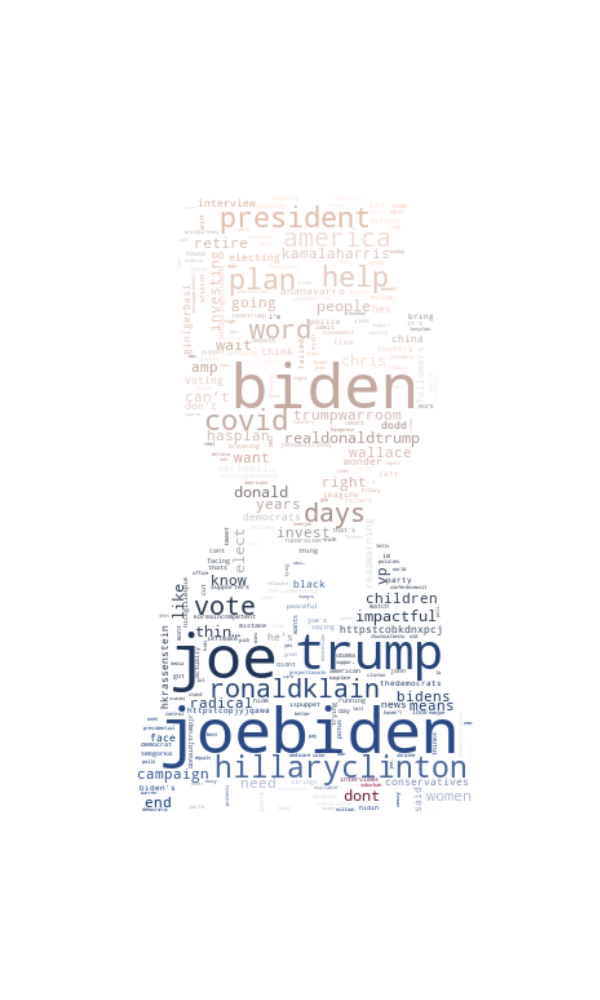
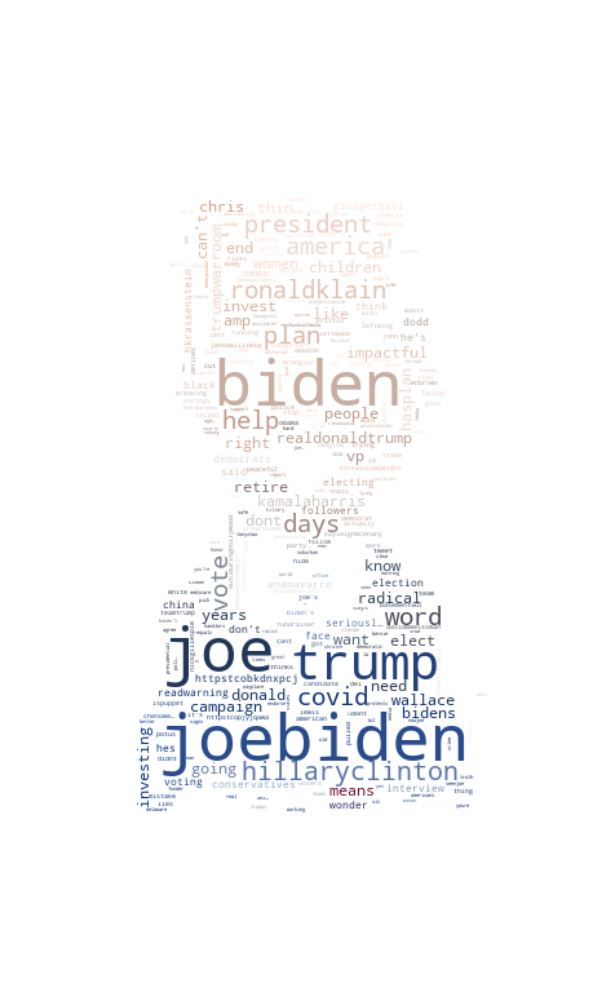
Fusion finish success

Changed region(s): [[0.21, 0.186, 0.81, 0.837]]

diff --git a/AppTraitement/index.py b/AppTraitement/index.py
@@ -1,17 +1,18 @@
 from Python.ParsingJson import ParsingJson
-# from Python.ParsingSpacy import ParsingSpacy
+from Python.ParsingSpacy import ParsingSpacy
 from Python.TraitementJsonFile import TraitementJsonFile
+from Python.GenerateImgResult import GenerateImgResult
 import time
 
 
-start = time.time()
-# Génération des JsonFile
-traitementJsonFile = TraitementJsonFile()
-traitementJsonFile.openFile("AppTraitement/JsonBigFile/us_election20_tweet_pr.json", 50000)
-traitementJsonFile.writeFile()
-end = time.time()
-val = end - start
-print("Time OpeWri : " + str(val))
+# start = time.time()
+# # Génération des JsonFile
+# traitementJsonFile = TraitementJsonFile()
+# traitementJsonFile.openFile("../AppTraitement/JsonBigFile/us_election20_tweet_pr.json", 50000)
+# traitementJsonFile.writeFile()
+# end = time.time()
+# val = end - start
+# print("Time OpeWri : " + str(val))
 
 
 # Memory error donc
@@ -22,7 +23,7 @@ print("Time OpeWri : " + str(val))
 
 start = time.time()
 # Instanciation Class ParsingJson
-parsingJson = ParsingJson("AppTraitement/JsonFiles/JsonFile1.json")
+parsingJson = ParsingJson("../AppTraitement/JsonFiles/JsonFile1.json")
 parsingJson.getJsonToArray()
 end = time.time()
 val = end - start
@@ -68,7 +69,7 @@ print("Time Sorted : " + str(val))
 
 start = time.time()
 # Récupération des 25 premier elements
-trumpBestElems = parsingJson.getFirstElemsArray(trumpSortedArray, 100)
+trumpBestElems = parsingJson.getFirstElemsArray(trumpSortedArray, 500)
 bidenBestElems = parsingJson.getFirstElemsArray(bidenSortedArray, 500)
 end = time.time()
 val = end - start
@@ -82,6 +83,21 @@ parsingJson.createResultFile("Biden", bidenBestElems)
 end = time.time()
 val = end - start
 print("Time Result : " + str(val))
+
+
+
+start = time.time()
+# Création des Img grâce aux stats
+generateTrump = GenerateImgResult(trumpBestElems, "Trump/")
+generateBiden = GenerateImgResult(bidenBestElems, "Biden/")
+
+generateTrump.execute()
+generateBiden.execute()
+end = time.time()
+val = end - start
+print("Time GenImg : " + str(val))
+
+
 
 
 # Test For InterfaceWeb

diff --git a/AppTraitement/Python/ParsingJson.py b/AppTraitement/Python/ParsingJson.py
@@ -108,8 +108,8 @@ class ParsingJson:
 
     # Fichier json contenant les résultat
     def createResultFile(self, name, data):
-        folder = 'AppTraitement/Result/' + name + '/'
-        with open(folder + name + '.json', "w") as filout:
+        folder = '../AppTraitement/Result/' + name + '/'
+        with open(folder + 'AResult.json', "w") as filout:
             filout.write(json.dumps(data))
 
 

diff --git a/AppTraitement/MainTest.py b/AppTraitement/MainTest.py
@@ -6,9 +6,8 @@ with open("Result/Biden/Biden.json") as f:
     biden = json.load(f)
 
 
-
-generate = GenerateImgResult(biden, "Biden/")
-
-
-
-generate.execute()
+# Création des Img grâce aux stats
+generateBiden = GenerateImgResult(biden, "Biden/")
+generateTrump = GenerateImgResult(biden, "Trump/")
+generateBiden.execute()
+generateTrump.execute()

diff --git a/AppTraitement/Python/TraitementJsonFile.py b/AppTraitement/Python/TraitementJsonFile.py
@@ -33,6 +33,6 @@ class TraitementJsonFile:
 
 # Write File jsonArrayList
     def writeFile(self):
-        with open("AppTraitement/JsonFiles/JsonFile1.json", "w") as filout:
+        with open("../AppTraitement/JsonFiles/JsonFile1.json", "w") as filout:
             result = json.dumps(self.jsonArray)
             filout.write(result)

diff --git a/AppTraitement/Python/GenerateImgResult.py b/AppTraitement/Python/GenerateImgResult.py
@@ -1,5 +1,4 @@
 import numpy as np
-import pandas as pd
 from PIL import Image
 import matplotlib.pyplot as plt
 from wordcloud import WordCloud, ImageColorGenerator
